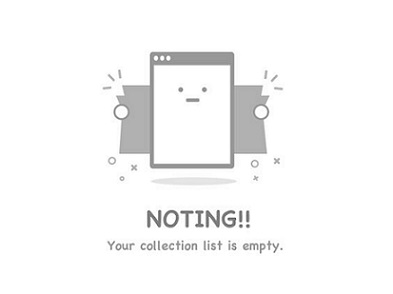
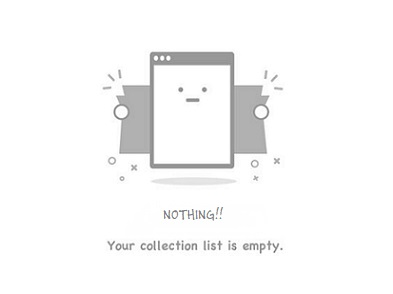
[fix]
- fix website description
- put maker on map where clicked
- add register link to form_login
- fix emptyList image
- fix totalPrice problem with float numbers
- setRole of User to USER_ROLE before registration

Changed region(s): [[0.3664, 0.7041, 0.6412, 0.7959]]

diff --git a/react/bookshop/src/components/user_info.js b/react/bookshop/src/components/user_info.js
@@ -2,12 +2,9 @@ import React, {Component, Fragment} from "react";
 import Tabs from "@material-ui/core/Tabs";
 import Tab from "@material-ui/core/Tab";
 import {Link, Route, Switch} from "react-router-dom";
-//
-// import "./styles.css";
 import AddressList from '../containers/list_address';
 import OrderList from '../containers/list_order';
 import UserForm from '../containers/form_user';
-import {connect} from "react-redux";
 import {withStyles} from "@material-ui/core/styles";
 
 const useStyles = theme => ({
@@ -23,7 +20,6 @@ const useStyles = theme => ({
 
 
 class UserInfo extends Component {
-
 
     getValue = (location) => {
         if (location.startsWith("/user_info/addresses")) {
@@ -43,7 +39,6 @@ class UserInfo extends Component {
                     path="/user_info"
                     render={({location}) => (
                         <Fragment>
-                            {this.props.user.isLoggedIn?
                             <Tabs value={this.getValue(location.pathname)} variant="fullWidth"
                                   className={classes.root}
                                   indicatorColor="secondary"
@@ -55,15 +50,7 @@ class UserInfo extends Component {
                                      to="/user_info/addresses"/>
                                 <Tab value={"/user_info/orders"} label="Orders" component={Link}
                                      to="/user_info/orders"/>
-                            </Tabs> :
-                                <Tabs value={this.getValue(location.pathname)} variant="fullWidth"
-                                      className={classes.root}
-                                      indicatorColor="secondary"
-                                      textColor="secondary"
-                                >
-                                    <Tab value={"/user_info"} label="Profile" component={Link} to="/user_info"/>
-                                </Tabs>
-                            }
+                            </Tabs>
                             <Switch>
                                 <Route exact={true} path="/user_info" component={UserForm}/>
                                 <Route path="/user_info/addresses" component={AddressList}/>
@@ -77,10 +64,4 @@ class UserInfo extends Component {
     }
 }
 
-function mapStateToProps(state) {
-    return {
-        user: state.user,
-    }
-}
-
-export default connect(mapStateToProps, null)(withStyles(useStyles)(UserInfo));
+export default (withStyles(useStyles)(UserInfo));

diff --git a/react/bookshop/src/containers/form_login.js b/react/bookshop/src/containers/form_login.js
@@ -7,7 +7,8 @@ import {Box, Button, Grid, Paper, TextField,} from '@material-ui/core'
 import clsx from 'clsx';
 import {withStyles} from '@material-ui/core/styles';
 import PasswordControl from '../components/form/control_password';
-import {Redirect} from "react-router-dom";
+import {NavLink, Redirect} from "react-router-dom";
+import Link from "@material-ui/core/Link";
 
 
 class LoginForm extends Component {
@@ -54,8 +55,12 @@ class LoginForm extends Component {
         event.preventDefault();
         if (this.validate()) {
             this.props.loginUser(this.state.credentials);
-        } else {
+        }
+    }
 
+    onRegisterClicked = () => {
+        if (this.props.onClick) {
+            this.props.onClick();
         }
     }
 
@@ -86,9 +91,12 @@ class LoginForm extends Component {
                                          required shrink={true} onChange={this.inputChanged}
                                          value={this.state.credentials.password}/>
                     </Grid>
-                    <Grid item xs={12} container justify="center" alignItems="center">
+                    <Grid item xs={6} container justify="center" alignItems="center">
                         <Button variant="contained" type="submit" className={classes.submit}
                                 color="primary">Login</Button>
+                    </Grid>
+                    <Grid item xs={6} container justify="center" alignItems="center">
+                        <Link component={NavLink} to="/register" onClick={this.onRegisterClicked}>Register</Link>
                     </Grid>
                 </Grid>
             </form>

diff --git a/react/bookshop/src/containers/content_book.js b/react/bookshop/src/containers/content_book.js
@@ -8,10 +8,11 @@ import CategoryLink from './link_category';
 import PublicationLink from './link_publication';
 import {fetchBook} from "../actions/actions_book";
 import {bindActionCreators} from "redux";
+import Hidden from "@material-ui/core/Hidden";
 
 class BookContent extends Component {
     componentDidMount() {
-        if(!this.props.book){
+        if (!this.props.book) {
             this.props.fetchBook(this.props.match.params.id);
         }
     }
@@ -20,12 +21,11 @@ class BookContent extends Component {
         if (this.props.book) {
             const book = this.props.book;
             return (
-                <Grid container spacing={2} style={{padding: 20}}>
-                    <Grid item md={2}>
-
-                    </Grid>
+                <Grid container style={{padding: 20}}>
+                    <Hidden smDown>
+                        <Grid item md={2}/>
+                    </Hidden>
                     <Grid item container xs={12} md={8} spacing={2} component={Paper}>
-                        {/* <Paper style={{ width: "100%" }}> */}
                         <Grid item container>
                             <Grid item xs={12} md={4}>
                                 <CardMedia

diff --git a/react/bookshop/src/components/popper_form_login.js b/react/bookshop/src/components/popper_form_login.js
@@ -1,14 +1,31 @@
-import React from 'react';
+import React, {Component} from 'react';
 import PopperBtn from './popper_button';
 import LoginForm from '../containers/form_login';
 
 
-export default function PopperLoginForm() {
-    return (
-        <PopperBtn tooltip="Login" btnName="Login" placement='bottom-end' icon="sign-in-alt" open={false}>
-            <div>
-                <LoginForm/>
-            </div>
-        </PopperBtn>
-    );
+export default class PopperLoginForm extends Component {
+    state = {
+        popper_open: false
+    }
+    onClick = () => {
+        this.setState({popper_open: false});
+    }
+
+    render() {
+        //React.forwardRef
+        const FancyButton = React.forwardRef((props, ref) => (
+            <PopperBtn tooltip="Login" btnName="Login" placement='bottom-end' icon="sign-in-alt"
+                       open={this.state.popper_open}>
+                {props.children}
+            </PopperBtn>
+        ));
+        const ref = React.createRef();
+        return (
+            <FancyButton ref={ref}>
+                <div>
+                    <LoginForm onClick={this.onClick}/>
+                </div>
+            </FancyButton>
+        );
+    }
 }

diff --git a/react/bookshop/src/containers/list_address.js b/react/bookshop/src/containers/list_address.js
@@ -97,7 +97,8 @@ class AddressList extends Component {
                                 <Box display={"flex"} justifyContent="center" className={classes.emptyList}>
                                     <img
                                         src={emptyListPic}
-                                        alt={"Empty List"}/>
+                                        alt={"Empty List"}
+                                        style={{maxWidth: '100%'}}/>
                                 </Box>
                                 :
                                 <List className={classes.list}>
@@ -108,7 +109,7 @@ class AddressList extends Component {
                                 </List>
                             }
                             {!this.props.view &&
-                            <Box>
+                            <Box display={"flex"} style={{width: 50, margin: 14}}>
                                 <Button variant="contained" color="primary"
                                         component={NavLink} to={`${this.props.match.url}/new`}
                                 >

diff --git a/react/bookshop/src/components/map.js b/react/bookshop/src/components/map.js
@@ -75,6 +75,17 @@ export default class Map extends Component {
         this.props.onMarkerChanged(map);
     };
 
+    _onMapClick = event => {
+        const map = {
+            longitude: event.lngLat[0],
+            latitude: event.lngLat[1]
+        };
+        this.setState({
+            marker: map
+        });
+        this.props.onMarkerChanged(map);
+    };
+
     _handleGeocoderViewportChange = (viewport) => {
         const geocoderDefaultOverrides = {transitionDuration: 1000}
         this._updateMarker({
@@ -99,6 +110,7 @@ export default class Map extends Component {
                 height="100%"
                 mapStyle='mapbox://styles/mapbox/streets-v11'
                 onViewportChange={this._updateViewport}
+                onClick={this._onMapClick}
                 mapboxApiAccessToken={TOKEN}
             >
                 {this.props.editable &&

diff --git a/react/bookshop/src/components/about.js b/react/bookshop/src/components/about.js
@@ -31,7 +31,7 @@ export default function About() {
                             <Typography variant={"body1"} align={"justify"} style={{padding: 5}}>
                                 Last summer, I threw caution to the wind and quit my job to pursue my dream, which is
                                 finding a job abroad.
-                                I was called ambitious and in some severe cases a foul to let go of my job without
+                                I was called ambitious and in some severe cases a fool to let go of my job without
                                 finding another position.
                                 I studied English for four months and took the IELTS exam in January and got 8 in
                                 overall.

diff --git a/react/bookshop/src/containers/menu.js b/react/bookshop/src/containers/menu.js
@@ -46,9 +46,9 @@ class Menu extends Component {
     }
 
     create_tlb_user() {
-        const tooltipLabel = !this.props.user.isLoggedIn ? 'Sign Up' : 'Profile';
         return (
-            <Tooltip title={tooltipLabel} aria-label={tooltipLabel}>
+            this.props.user.isLoggedIn &&
+            <Tooltip title={'Profile'} aria-label={'Profile'}>
                 <IconButton
                     component={NavLink} to="/user_info"
                     color="inherit"
@@ -117,7 +117,7 @@ class Menu extends Component {
         )
     }
 
-    create_about(){
+    create_about() {
         return (
             <Button color="inherit"
                     component={NavLink} to="/about">

diff --git a/react/bookshop/public/index.html b/react/bookshop/public/index.html
@@ -5,7 +5,7 @@
     <meta charset="utf-8"/>
     <link rel="icon" href="%PUBLIC_URL%/favicon.png"/>
     <meta name="theme-color" content="#000000"/>
-    <meta name="description" content="Web site created using create-react-app"/>
+    <meta name="description" content="Bookshop, a sample website"/>
     <meta name="viewport" content="minimum-scale=1, initial-scale=1, width=device-width"/>
     <link href="https://api.mapbox.com/mapbox-gl-js/v1.9.0/mapbox-gl.css" rel="stylesheet"/>
     <link href='https://api.mapbox.com/mapbox-gl-js/plugins/mapbox-gl-geocoder/v4.2.0/mapbox-gl-geocoder.css'

diff --git a/react/bookshop/src/reducers/reducer_shopping_cart.js b/react/bookshop/src/reducers/reducer_shopping_cart.js
@@ -3,9 +3,9 @@ import {SHOPPING_CART_ACTIONS} from '../actions/actions_shopping_cart';
 function computeTotalPrice(orderItems) {
     let totalPrice = 0;
     orderItems.forEach((orderItem, key)=>{
-       totalPrice+=orderItem.quantity * orderItem.book.price;
+       totalPrice+= orderItem.quantity * parseFloat(orderItem.book.price);
     });
-    return totalPrice;
+    return totalPrice.toFixed(2);
 }
 
 export function ShoppingCartReducer(state = null, action) {

diff --git a/react/bookshop/src/containers/content_order.js b/react/bookshop/src/containers/content_order.js
@@ -21,7 +21,7 @@ class OrderContent extends Component {
         if (!this.props.order) {
             return ""
         }
-        if (this.props.order.orderItems && this.props.order.orderItems.size > 0) {
+        if (this.props.order.orderItems && this.props.order.orderItems.length > 0) {
             return (
                 <div className={classes.root}>
                     <List dense className={classes.list}>

diff --git a/react/bookshop/src/App.js b/react/bookshop/src/App.js
@@ -124,6 +124,7 @@ class App extends Component {
                         <Route path="/addresses" component={AddressList}/>
                         <Route path="/user_info" component={UserInfo}/>
                         <Route path="/about" component={About}/>
+                        <Route exact={true} path="/register" component={UserForm}/>
                     </Container>
 
                 </div>
